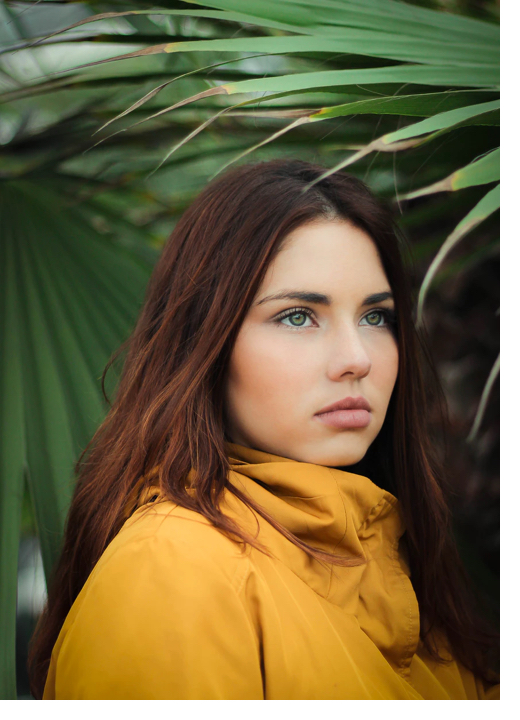
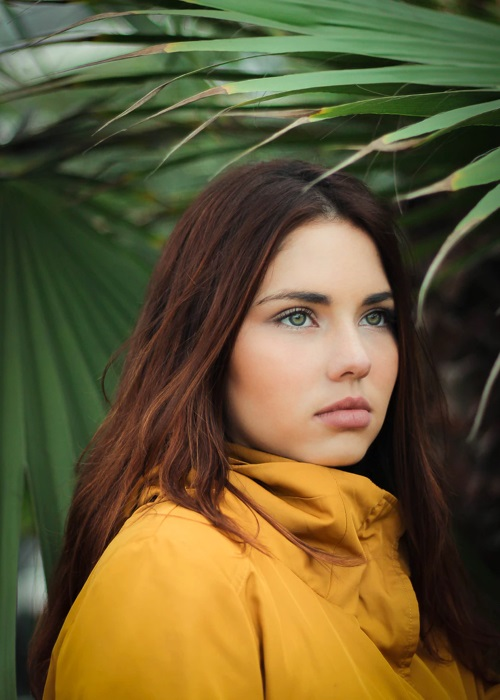
styled the header

diff --git a/styles/style.css b/styles/style.css
@@ -260,8 +260,7 @@ h1, h2, h3, h4 {
 }
 
 h2 {
-  font-size: 80px;
-  font-size: 8rem;
+  font-size: calc(4rem + 8vw);
 }
 
 h1, h3 {
@@ -282,7 +281,6 @@ a {
   display: inline-block;
   text-decoration: none;
   text-transform: uppercase;
-  color: #fff;
 }
 
 button {
@@ -298,21 +296,104 @@ button {
 img {
   max-width: 100%;
   height: 100%;
+  display: block;
+  -o-object-fit: cover;
+     object-fit: cover;
 }
 
 .container {
   width: 80%;
   margin: 0 auto;
-  max-width: 1200px;
+  max-width: 1280px;
 }
 
 header {
-  background: #709B6B;
+  background: #345231;
+  height: 100vh;
 }
 
-header .header-text .rounded {
-  font-family: "Montserrat", sans-serif;
-  font-size: 20px;
-  font-size: 2rem;
+header nav {
+  display: -webkit-box;
+  display: -ms-flexbox;
+  display: flex;
+  -webkit-box-pack: center;
+      -ms-flex-pack: center;
+          justify-content: center;
+  -webkit-box-align: center;
+      -ms-flex-align: center;
+          align-items: center;
+  height: 15vh;
+}
+
+header nav ul {
+  display: -webkit-box;
+  display: -ms-flexbox;
+  display: flex;
+  -webkit-box-pack: center;
+      -ms-flex-pack: center;
+          justify-content: center;
+  -webkit-box-align: center;
+      -ms-flex-align: center;
+          align-items: center;
+  height: 100%;
+}
+
+header nav ul li {
+  margin: 0 2%;
+}
+
+header nav ul a {
+  padding: 10px;
+  letter-spacing: 0.1rem;
+  font-weight: 700;
   color: #fff;
+}
+
+header .header-flex {
+  display: -webkit-box;
+  display: -ms-flexbox;
+  display: flex;
+  -webkit-box-pack: center;
+      -ms-flex-pack: center;
+          justify-content: center;
+  -webkit-box-align: center;
+      -ms-flex-align: center;
+          align-items: center;
+  -ms-flex-wrap: wrap;
+      flex-wrap: wrap;
+  height: 85vh;
+  width: 100%;
+}
+
+header .header-flex .header-text {
+  width: 60%;
+}
+
+header .header-flex .header-image {
+  position: relative;
+  top: 50px;
+  width: 40%;
+  height: 100%;
+}
+
+header .header-flex .header-image img {
+  -webkit-box-shadow: 20px 20px 0 0 #fff;
+          box-shadow: 20px 20px 0 0 #fff;
+}
+
+header .header-flex h2:before {
+  content: "";
+  background: url(../assets/circle-text.png) no-repeat;
+  background-size: contain;
+  height: 85%;
+  width: 100%;
+  position: absolute;
+  left: -50px;
+}
+
+header .header-flex h2 {
+  color: #fff;
+  position: relative;
+  display: inline-block;
+  margin: auto;
 }

diff --git a/styles/sass/_header.scss b/styles/sass/_header.scss
@@ -1,11 +1,64 @@
 header {
     background: $background-primary;
+    height: 100vh;
 
-    .header-text {
-        .rounded {
-            font-family: $montserrat;
-            @include font-size(20);
+    nav {
+        @include center-flex();
+        height: 15vh;
+        ul {
+            @include center-flex();
+            height: 100%;
+
+            li {
+                margin: 0 2%;
+            }
+
+            a {
+                padding: 10px;
+                letter-spacing: 0.1rem;
+                font-weight: 700;
+                color: $nav-text;
+            }
+        }
+    }
+
+    .header-flex {
+        @include center-flex();
+        flex-wrap: wrap;
+        height: 85vh;
+        width: 100%;
+        .header-text {
+            width: 60%;
+        }
+
+        .header-image {
+            position: relative;
+            top: 50px;
+            width: 40%;
+            height: 100%;
+
+            img{
+                box-shadow: 20px 20px 0 0 #fff;
+            }
+        }
+
+        h2:before {
+            // content: url(../assets/circle-text.png);
+            content: "";
+            background: url(../assets/circle-text.png) no-repeat;
+            background-size: contain;
+            height: 85%;
+            width: 100%;
+            position: absolute;
+            left: -50px;
+        }
+    
+        h2 {
             color: #fff;
+            position: relative;
+            display: inline-block;
+
+            margin: auto;
         }
     }
 }

diff --git a/index.html b/index.html
@@ -21,11 +21,13 @@
                     <li><a href="contact.html">contact</a></li>
                 </ul>
             </nav>
-            <div class="header-text">
-                <h2><span class="rounded">Daily musings of</span>Willow</h2>
-            </div>
-            <div class="header-image">
-                <img src="assets/home-image-1.jpg" alt="Portrait of Willow">
+            <div class="header-flex">
+                <div class="header-text">
+                    <h2><span class="sr-only">Daily musings of </span>Willow</h2>
+                </div>
+                <div class="header-image">
+                    <img src="assets/home-image-1.jpg" alt="Portrait of Willow">
+                </div>
             </div>
         </div>
     </header>

diff --git a/styles/sass/_globals.scss b/styles/sass/_globals.scss
@@ -22,7 +22,7 @@ h1, h2, h3, h4 {
 }
 
 h2 {
-    @include font-size(80);
+    font-size: calc(4rem + 8vw);
 }
 
 h1, h3 {
@@ -41,7 +41,6 @@ a {
     display: inline-block;
     text-decoration: none;
     text-transform: uppercase;
-    color: $nav-text;
 }
 
 button {
@@ -57,10 +56,12 @@ button {
 img {
     max-width: 100%;
     height: 100%;
+    display: block;
+    object-fit: cover;
 }
 
 .container {
     width: 80%;
     margin: 0 auto;
-    max-width: 1200px;
+    max-width: 1280px;
 }

diff --git a/styles/sass/_variables-mixins.scss b/styles/sass/_variables-mixins.scss
@@ -3,8 +3,8 @@ $nav-text: #fff;
 
 $accent: #E4A436;
 
-$background-primary: #709B6B;
-$background-secondary: #345231;
+$background-primary: #345231;
+$background-secondary: #709B6B;
 $background-white: #F6F6F6;
 
 //Hover and Focus
